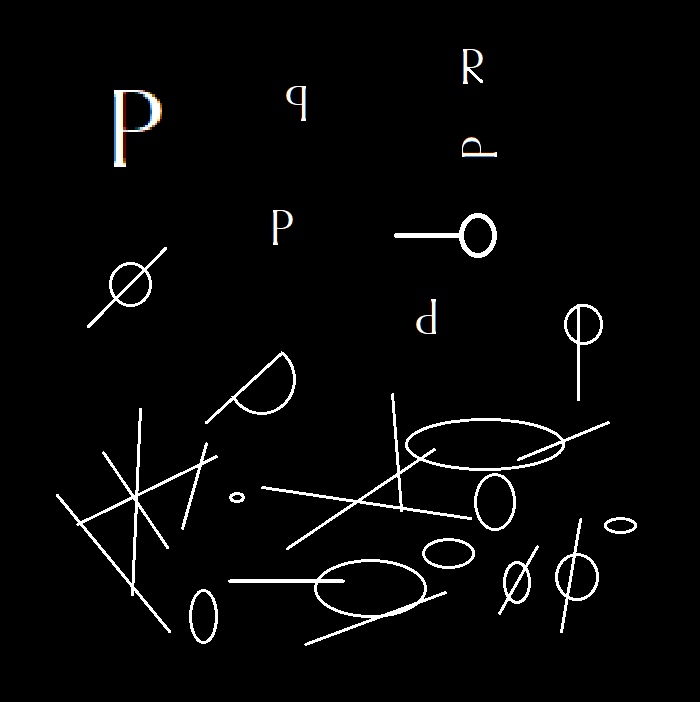
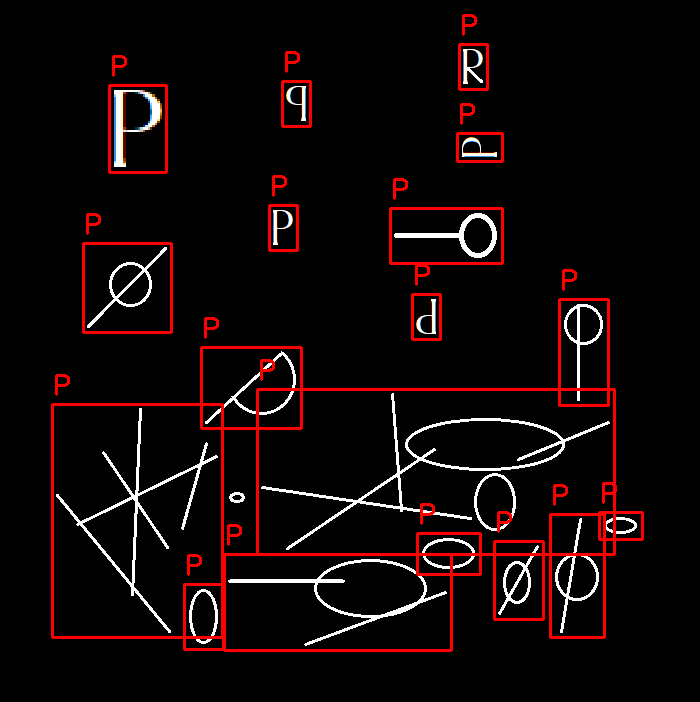
proba, ne radi kod

diff --git a/dodatni_zadatak/source.py b/dodatni_zadatak/source.py
@@ -7,31 +7,56 @@ if image is None:
     print("Greška pri učitavanju slike.")
     exit()
 
+# Konverzija u grayscale
 gray = cv2.cvtColor(image, cv2.COLOR_BGR2GRAY)
 
-# Korak 1: Binarizacija slike
-_, binary = cv2.threshold(gray, 128, 255, cv2.THRESH_BINARY_INV)
-cv2.imshow("Binarizovana slika", binary)
-cv2.waitKey(0)
+# Adaptivna binarizacija
+binary = cv2.adaptiveThreshold(
+    gray, 255, cv2.ADAPTIVE_THRESH_GAUSSIAN_C, cv2.THRESH_BINARY_INV, 11, 2
+)
 
-# Korak 2: Pronalaženje kontura
+# Pronalaženje kontura
 contours, _ = cv2.findContours(binary, cv2.RETR_EXTERNAL, cv2.CHAIN_APPROX_SIMPLE)
 
-# Prikaz kontura na binarizovanoj slici
-contour_image = cv2.cvtColor(binary, cv2.COLOR_GRAY2BGR)
-cv2.drawContours(contour_image, contours, -1, (0, 255, 0), 2)
-cv2.imshow("Konture", contour_image)
-cv2.waitKey(0)
 
-
-# Funkcija za prepoznavanje slova P (koristeći oblik konture)
+# Funkcija za prepoznavanje slova P
 def is_letter_P(contour):
-    approx = cv2.approxPolyDP(contour, 0.02 * cv2.arcLength(contour, True), True)
-    if len(approx) > 5:  # Provera da li ima dovoljno tačaka za slovo
-        x, y, w, h = cv2.boundingRect(contour)
-        aspect_ratio = w / float(h)
-        if 0.3 < aspect_ratio < 0.7:  # Provera proporcija slova "P"
+    # Oblast konture
+    area = cv2.contourArea(contour)
+    if area < 500:  # Povećanje minimalne površine
+        return False
+
+    # Proporcije pravougaonika
+    rect = cv2.minAreaRect(contour)
+    (x, y), (width, height), angle = rect
+    aspect_ratio = min(width, height) / max(width, height)
+    if not (0.2 < aspect_ratio < 1.5):  # Proširenje granica proporcija
+        return False
+
+    # Rotacija konture za poravnanje
+    rot_mat = cv2.getRotationMatrix2D((x + width // 2, y + height // 2), angle, 1)
+    rotated_binary = cv2.warpAffine(binary, rot_mat, (binary.shape[1], binary.shape[0]))
+
+    # Pronaći konture nakon rotacije
+    rotated_contours, _ = cv2.findContours(
+        rotated_binary, cv2.RETR_EXTERNAL, cv2.CHAIN_APPROX_SIMPLE
+    )
+
+    # Proveriti postojanje unutrašnje konture (rupa)
+    for rotated_contour in rotated_contours:
+        # Kreiramo masku za konturu
+        mask = np.zeros(rotated_binary.shape, dtype=np.uint8)
+        cv2.drawContours(mask, [rotated_contour], -1, 255, -1)
+
+        # Pronaći unutrašnje konture
+        inner_contours, _ = cv2.findContours(
+            mask, cv2.RETR_TREE, cv2.CHAIN_APPROX_SIMPLE
+        )
+
+        # Provera da li postoji rupa unutar konture (prostor sa 0 vrednostima)
+        if len(inner_contours) > 0:
             return True
+
     return False
 
 
@@ -40,21 +65,27 @@ detected = False
 for contour in contours:
     if is_letter_P(contour):
         x, y, w, h = cv2.boundingRect(contour)
-        cv2.rectangle(
-            image, (x, y), (x + w, y + h), (0, 0, 255), 2
-        )  # Crveni pravougaonik
+        cv2.rectangle(image, (x, y), (x + w, y + h), (0, 0, 255), 2)
         cv2.putText(
             image, "P", (x, y - 10), cv2.FONT_HERSHEY_SIMPLEX, 0.9, (0, 0, 255), 2
         )
         detected = True
 
+# Debug: Prikaz svih kontura radi provere
+debug_image = image.copy()
+cv2.drawContours(debug_image, contours, -1, (255, 0, 0), 2)
+cv2.imshow("All Contours", debug_image)
+cv2.waitKey(0)
+
 if not detected:
     print("Nijedno slovo 'P' nije detektovano.")
+else:
+    print("Detektovano je slovo 'P'.")
 
 # Prikaz rezultata
 cv2.imshow("Detected Letters", image)
 cv2.waitKey(0)
 cv2.destroyAllWindows()
 
-# Sačuvaj sliku sa obeleženim slovima P
+# Čuvanje slike sa obeleženim slovima P
 cv2.imwrite("detected_P.png", image)
